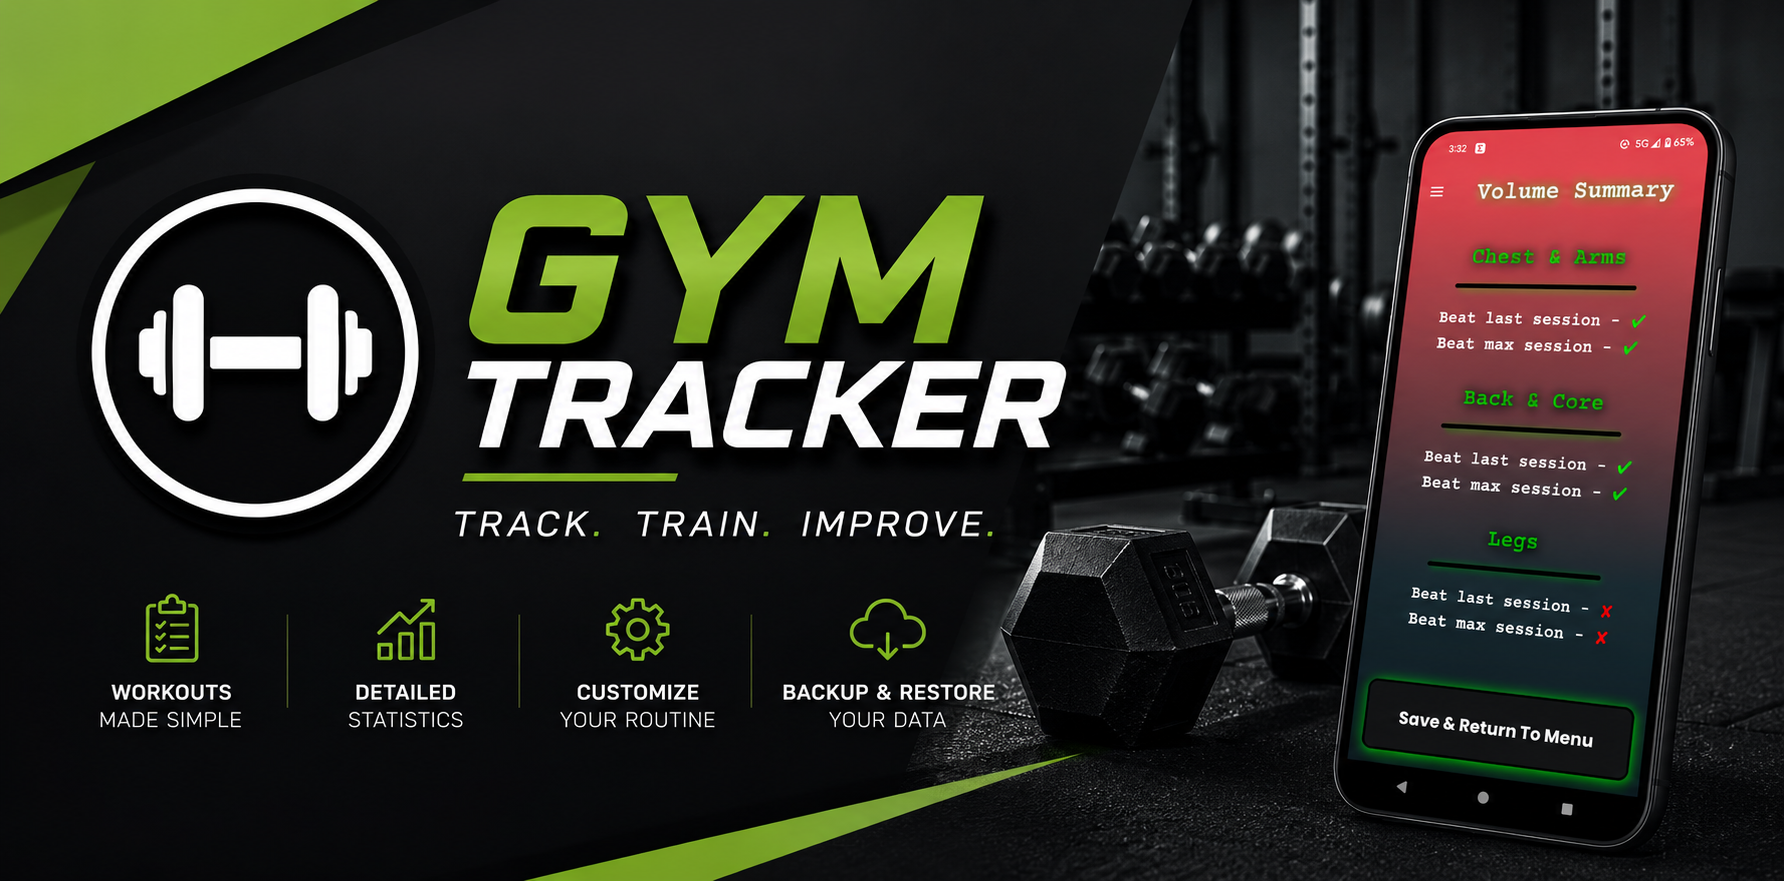
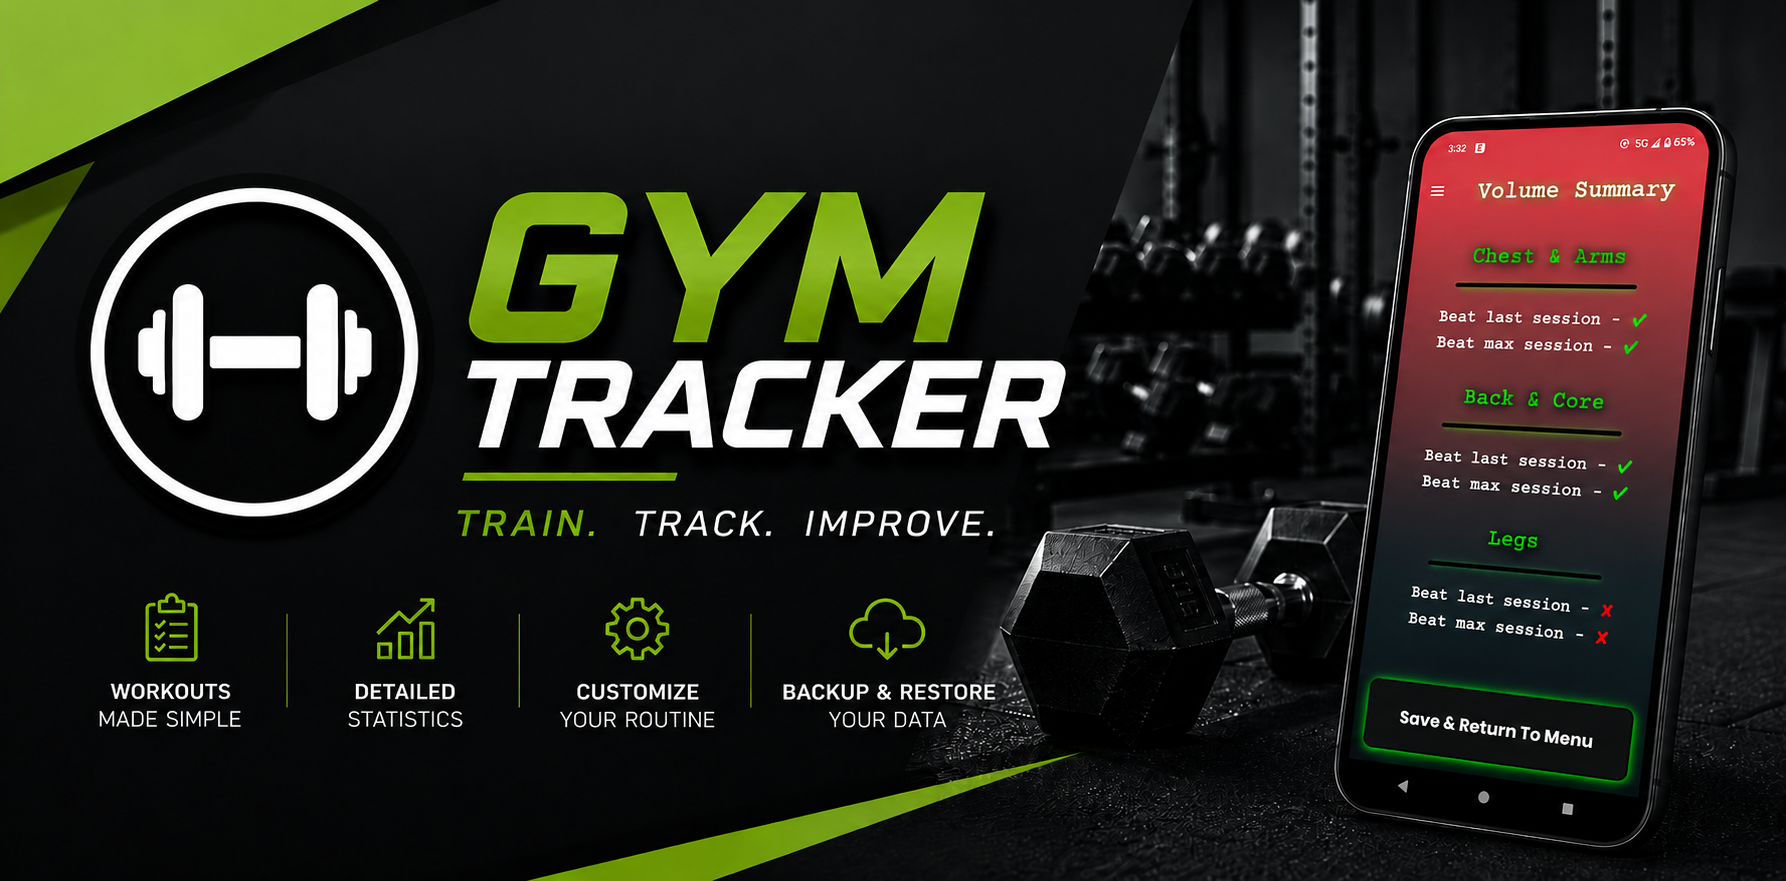
-Website refinements

diff --git a/support.html b/support.html
@@ -30,9 +30,9 @@
 
         </div>
 
-        <p class="tagline">
+        <h2 class="tagline">
             Support
-        </p>
+        </h2>
 
     </div>
 
@@ -43,8 +43,6 @@
 <section class="page">
 
 <div class="container">
-
-<h2>Support</h2>
 
 <p>
 
@@ -130,7 +128,7 @@ No. There are no accounts or registration required.
 
 <p>
 
-Your workout history is stored locally on your device. It can be exported to a database file if you need to migrate your history.
+Your workout history is stored locally on your device. It can be exported to a database file if you need to migrate your history or need to retain your data before uninstalling.
 
 </p>
 
@@ -164,16 +162,12 @@ While I can't guarantee an immediate response, I do my best to reply to support 
 
 <p>
 
-© 2026 GymTracker
-
-</p>
-<p>
-    GymTracker v1.0.0
+© 2026 GymTracker, v1.0.0
 </p>
 
 <div class="footer-links">
 
-<a href="index.html">Home</a>
+<a href="./">Home</a>
 
 <a href="privacy-policy.html">Privacy Policy</a>
 

diff --git a/privacy-policy.html b/privacy-policy.html
@@ -30,9 +30,9 @@
 
         </div>
 
-        <p class="tagline">
+        <h2 class="tagline">
             Privacy Policy
-        </p>
+        </h2>
 
     </div>
 
@@ -43,8 +43,6 @@
 <section class="page">
 
 <div class="container">
-
-<h2>Privacy Policy</h2>
 
 <p class="effective-date">
 <strong>Effective Date:</strong> July 30, 2026
@@ -183,13 +181,13 @@ If you have any questions regarding this Privacy Policy, please contact:
 
 <p>
 
-© 2026 GymTracker
+© 2026 GymTracker, v1.0.0
 
 </p>
 
 <div class="footer-links">
 
-<a href="index.html">Home</a>
+<a href="./">Home</a>
 
 <a href="support.html">Support</a>
 

diff --git a/index.html b/index.html
@@ -19,7 +19,7 @@
         </div>
 
         <p class="tagline">
-            Track. Train. Improve.
+            Train. Track. Improve.
         </p>
 
     </div>
@@ -130,7 +130,7 @@
     <div class="container">
 
         <p>
-            © 2026 GymTracker
+            © 2026 GymTracker, v1.0.0
         </p>
 
         <div class="footer-links">

diff --git a/styles.css b/styles.css
@@ -58,7 +58,7 @@ header{
 
     color:#7cff53;
 
-    font-size:1.3rem;
+    font-size:2rem;
 }
 
 .hero{
